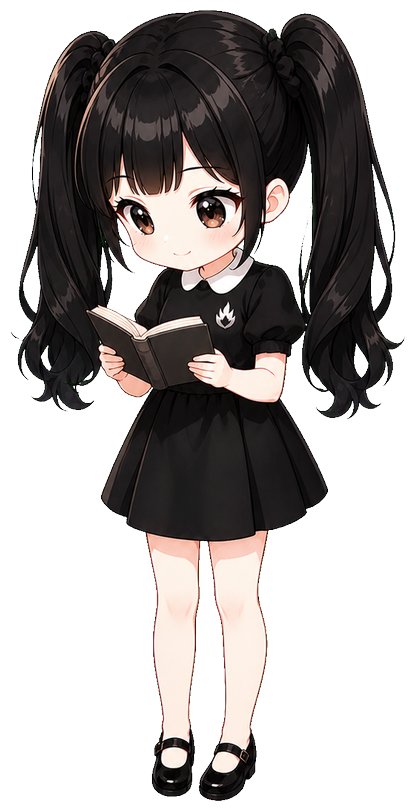
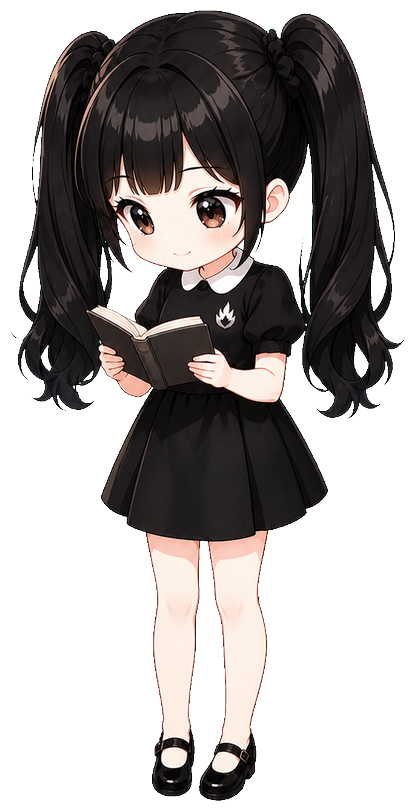
fix(ui): 桌宠改成两帧慢循环，去掉眨眼和大挥手
每套只留站定加一个小动作，一拍约一秒，循环里多停少动，戳一下也不再弹跳放大。

diff --git a/web/src/components/FurnaceSprite.vue b/web/src/components/FurnaceSprite.vue
@@ -166,9 +166,9 @@ function poke() {
   window.clearTimeout(pokeTimer)
   pokeTimer = window.setTimeout(() => {
     poking.value = false
-  }, 2800)
+  }, 7000)
   const line = POKE_LINES[Math.floor(Math.random() * POKE_LINES.length)]
-  say(line, 2800)
+  say(line, 4200)
 }
 
 function onEnter() {
@@ -376,7 +376,7 @@ onUnmounted(() => {
 }
 
 .furnace-pet.is-poke .furnace-pet-img {
-  animation: furnace-poke 0.4s ease;
+  animation: furnace-poke 0.9s ease;
 }
 
 .furnace-pet-meta {
@@ -450,8 +450,8 @@ onUnmounted(() => {
   0% {
     transform: scale(1);
   }
-  40% {
-    transform: translateY(-3px) scale(1.02);
+  35% {
+    transform: translateY(-1px);
   }
   100% {
     transform: scale(1);

diff --git a/docs/assets/furnace-pet-frames/compose.py b/docs/assets/furnace-pet-frames/compose.py
@@ -14,11 +14,13 @@ ROOT = Path(__file__).resolve().parent
 WEB = Path(__file__).resolve().parents[3] / "web" / "src" / "assets"
 DOCS = Path(__file__).resolve().parents[1]
 
+# 每套只两帧：站定 + 一个小动作。第三帧（眨眼/大挥手/书光）不再进 GIF。
+# fps=1：每帧约 1 秒；rest_cycle 里多停少动。
 SETS = {
-    "idle": (["idle-01.png", "idle-02.png", "idle-03.png"], 2, True, "furnace-idle.png"),
-    "working": (["work-01.png", "work-02.png", "work-03.png"], 2, True, "furnace-working.png"),
-    "waiting": (["wait-01.png", "wait-02.png", "wait-03.png"], 2, True, "furnace-waiting.png"),
-    "poke": (["poke-01.png", "poke-02.png", "poke-03.png"], 2, False, None),
+    "idle": (["idle-01.png", "idle-02.png"], 1, "furnace-idle.png"),
+    "working": (["work-01.png", "work-02.png"], 1, "furnace-working.png"),
+    "waiting": (["wait-01.png", "wait-02.png"], 1, "furnace-waiting.png"),
+    "poke": (["poke-01.png", "poke-02.png"], 1, None),
 }
 
 CANVAS_W, CANVAS_H = 420, 810
@@ -61,11 +63,11 @@ def fit_canvas(im: Image.Image) -> Image.Image:
     return canvas
 
 
-def pingpong(frames: list[Image.Image], loop_back: bool) -> list[Image.Image]:
-    held = [frames[0], frames[0], *frames]
-    if not loop_back or len(frames) < 3:
-        return held
-    return held + frames[-2:0:-1]
+def rest_cycle(frames: list[Image.Image]) -> list[Image.Image]:
+    """大半时间站着，中间轻轻动一下，再站回去。不来回乒乓。"""
+    a = frames[0]
+    b = frames[1] if len(frames) > 1 else frames[0]
+    return [a, a, a, a, b, a, a]
 
 
 def ffmpeg_gif(frames: list[Image.Image], dest: Path, fps: int) -> None:
@@ -119,7 +121,7 @@ def ffmpeg_gif(frames: list[Image.Image], dest: Path, fps: int) -> None:
 
 def main() -> None:
     WEB.mkdir(parents=True, exist_ok=True)
-    for name, (files, fps, loop_back, png_name) in SETS.items():
+    for name, (files, fps, png_name) in SETS.items():
         raw = [Image.open(ROOT / fn) for fn in files]
         keyed = []
         for im in raw:
@@ -137,7 +139,7 @@ def main() -> None:
         if png_name:
             cropped[0].save(WEB / png_name)
         dest = WEB / f"furnace-{name}.gif"
-        ffmpeg_gif(pingpong(cropped, loop_back), dest, fps)
+        ffmpeg_gif(rest_cycle(cropped), dest, fps)
         if name == "idle":
             shutil.copy2(dest, DOCS / "furnace-pet.gif")
         print(dest.name, dest.stat().st_size)

diff --git a/README.md b/README.md
@@ -23,7 +23,7 @@
 > Workflow 负责串起过程，人可以确认、拒绝、插队、绕行，也可以随时回来继续。
 
 <p align="center">
-  <img src="./docs/assets/furnace-pet.gif" alt="熔炉桌宠：黑裙双马尾少女，闲置慢慢招手" width="88" height="170" />
+  <img src="./docs/assets/furnace-pet.gif" alt="熔炉桌宠：黑裙双马尾少女，闲置时偶尔轻轻招手" width="88" height="170" />
 </p>
 
 <img src="./docs/assets/screenshots/workbench-home.webp" alt="oh-my-co-work 工作台首页：居中欢迎区，口号含终端守护者与熔炉连接一切" width="100%" />
@@ -98,7 +98,7 @@
 
 <img src="./docs/assets/screenshots/furnace-workspace-chat.webp" alt="熔炉铺满页面：去颜色画面、底部输入、可缩小回三栏" width="100%" />
 
-- 桌宠三态慢循环 **GIF**（闲置招手打招呼 / 干活低头看书 / 等人轻轻点头），戳一下另有短动画；系统要求减少动效时回退静图。
+- 桌宠三态慢循环 **GIF**（闲置偶尔招手 / 干活捧书 / 等人双手交叠），每套两帧、多停少动；戳一下另有短动画；系统要求减少动效时回退静图。
 - 默认 **GUI**：欢迎卡说明能干啥；Grok 开口后只显示当前屏可读正文（去 TUI 框线和底栏）。底部输入、短指令芯片。附件落到熔炉 `inbox/`，发送时把相对路径写成一行写进同一进程（不是 Grok 原生传文件）。只留一张大卡通头像。
 - 开炉写入 `data/furnace/AGENTS.md` 短规则 + 约百字 `--prompt`（Windows 走 argv，不经 cmd 拼中文）。长文在 `ACTIVE.md`，禁止复述。不写 `~/.grok/AGENTS.md`。
 - **TUI**：原 Grok 终端。菜单和快捷键走这里。隐藏时不把 PTY 缩成几列。首次进入后切皮不拆终端。

diff --git a/docs/assets/furnace-pet-frames/README.md b/docs/assets/furnace-pet-frames/README.md
@@ -1,14 +1,15 @@
 # 熔炉桌宠分镜（进 git）
 
 合成循环 GIF 用的透明底分镜。运行时读的是 `web/src/assets/furnace-*.gif`。
-动作要日常、慢：每帧约 500ms，先停一拍再动。
+要日常、慢：每套只两帧（站定 + 一个小动作），每帧约 1 秒，循环里多停少动。
+第三帧（眨眼、大挥手、书光）留在目录里但不进 GIF。
 
 | 文件 | 接到哪套 GIF |
 |------|----------------|
-| `idle-01.png` … `idle-03.png` | `furnace-idle.gif` 闲置：站着、招手打招呼 |
-| `work-01.png` … `work-03.png` | `furnace-working.gif` 干活：低头看书 |
-| `wait-01.png` … `wait-03.png` | `furnace-waiting.gif` 等人：双手交叠、轻轻点头 |
-| `poke-01.png` … `poke-03.png` | `furnace-poke.gif` 戳一下：轻愣一下再招手 |
+| `idle-01.png` + `idle-02.png` | `furnace-idle.gif` 闲置：站着，偶尔轻轻招手 |
+| `work-01.png` + `work-02.png` | `furnace-working.gif` 干活：捧着书，偶尔翻一下 |
+| `wait-01.png` + `wait-02.png` | `furnace-waiting.gif` 等人：双手交叠，偶尔轻轻点头 |
+| `poke-01.png` + `poke-02.png` | `furnace-poke.gif` 戳一下：愣一下再轻轻抬手 |
 
 改动作时先换这些 PNG（绿幕或透明均可），再跑：
 

diff --git a/docs/crucible-3x.md b/docs/crucible-3x.md
@@ -117,7 +117,7 @@
 
 ### 5.3 形象 Logo（已决）
 
-不替代工作台 [人·文档·机](./brand-logo.md)。卡通 **黑裙美少女** Q 版（三态慢循环 GIF：招手打招呼 / 低头看书 / 等人点头，戳一下另有短 GIF），贴在页面**右侧、距底约三分之一**当桌宠（首次展开看全身，可收成小身位），不进顶栏。可戳、可拖、会说话，点「开熔炉」或双击进 TUI。
+不替代工作台 [人·文档·机](./brand-logo.md)。卡通 **黑裙美少女** Q 版（三态两帧慢循环 GIF：偶尔招手 / 捧书 / 双手交叠，戳一下另有短 GIF），贴在页面**右侧、距底约三分之一**当桌宠（首次展开看全身，可收成小身位），不进顶栏。可戳、可拖、会说话，点「开熔炉」或双击进 TUI。
 
 **三态**（卡通 Logo；系统要求减少动效时回退 PNG）：
 

diff --git a/docs/frontend-components.md b/docs/frontend-components.md
@@ -38,7 +38,7 @@ app.use(ElementPlusX)
 | 区域 | 组件 | 说明 |
 |------|------|------|
 | 壳层顶栏 | `App.vue` + `AppLogo` | 品牌 Logo + 分段导航 |
-| 熔炉桌宠 | `FurnaceSprite` | 贴右、距底约三分之一；慢循环 GIF（招手 / 看书 / 点头）+ 戳一下；收起后仍是整个人 |
+| 熔炉桌宠 | `FurnaceSprite` | 贴右、距底约三分之一；两帧慢循环 GIF（偶尔招手 / 捧书 / 交叠）+ 戳一下；收起后仍是整个人 |
 | 熔炉干活面头像 | `FurnaceAvatar` | 仅 GUI 大头；开干活面时藏桌宠 |
 | 熔炉 GUI 附件 | `FurnaceWorkspace` 附件栏 | 落到 `inbox/`，发送写成一行相对路径进 PTY（非 Grok 原生附件） |
 | Logo | `components/AppLogo.vue` · `assets/logo.svg` | **左人 · 中文档 · 右机**（人机协同办公）；见 [brand-logo.md](./brand-logo.md) |

diff --git a/CODE_CHANGE.md b/CODE_CHANGE.md
@@ -22,6 +22,11 @@ YYYY-MM-DD | A/M/D/R | 文件路径 | 一句话说明（改了什么、为什么
 
 ## 变更记录
 
+2026-08-21 | M | compose.py + furnace-*.gif/png | 桌宠每套两帧、1 秒一拍、多停少动；去掉眨眼和大挥手
+2026-08-21 | M | FurnaceSprite.vue | 戳一下不再弹跳放大，动画更长
+2026-08-21 | M | README / crucible-3x / crucible-3.7 / mvp / frontend-components / pet-frames README | 同步两帧慢循环口径
+2026-08-21 | M | CODE_CHANGE.md | 追加本轮条目
+
 2026-08-21 | M | packages/linux + win32 + darwin zip | 覆盖失败态 GUI 说明卡运行包
 2026-08-21 | M | FurnaceWorkspace.vue | 启动失败切回 GUI 说明卡，不再留空黑屏
 2026-08-21 | M | terminalService.js | spawn 失败写入 replay 和 lastError

diff --git a/docs/mvp.md b/docs/mvp.md
@@ -446,7 +446,7 @@
 
 ### 2.31 版本 3.7.0（2026-08-20 · **3.x 最终封板**）
 
-- 桌宠循环 GIF（闲置 / 干活 / 等人）+ 戳一下；干活面卡通头像随进程换表情。
+- 桌宠循环 GIF（闲置偶尔招手 / 干活捧书 / 等人交叠，两帧慢循环）+ 戳一下；干活面卡通头像随进程换表情。
 - GUI 欢迎卡与当前屏可读正文；开炉短 AGENTS + `--prompt`。
 - GUI 附件落到 `inbox/`，发送写成一行相对路径写入同一 PTY（不是 Grok 原生传文件）。
 - 用户侧 GUI / TUI；隐藏 TUI 不缩 PTY；首次挂载后切皮不拆终端。

diff --git a/docs/crucible-3.7.md b/docs/crucible-3.7.md
@@ -14,7 +14,7 @@
 
 | 项 | 口径 |
 |----|------|
-| 桌宠 | 三态循环 **GIF** + 戳一下短动画；系统要求减少动效时回退 PNG |
+| 桌宠 | 三态两帧慢循环 **GIF**（多停少动）+ 戳一下；减少动效时回退 PNG |
 | 干活面头像 | 只留 GUI 大头；开干活面时不重复桌宠 |
 | 两张皮叫法 | 用户侧 **GUI / TUI**（存盘仍是 `grok.surface`：`chat` \| `tui`） |
 | GUI 附件 | 文件落到 `data/furnace/inbox/<会话>/`；发送写成一行相对路径再回车。**不是** Grok 原生传文件 |
